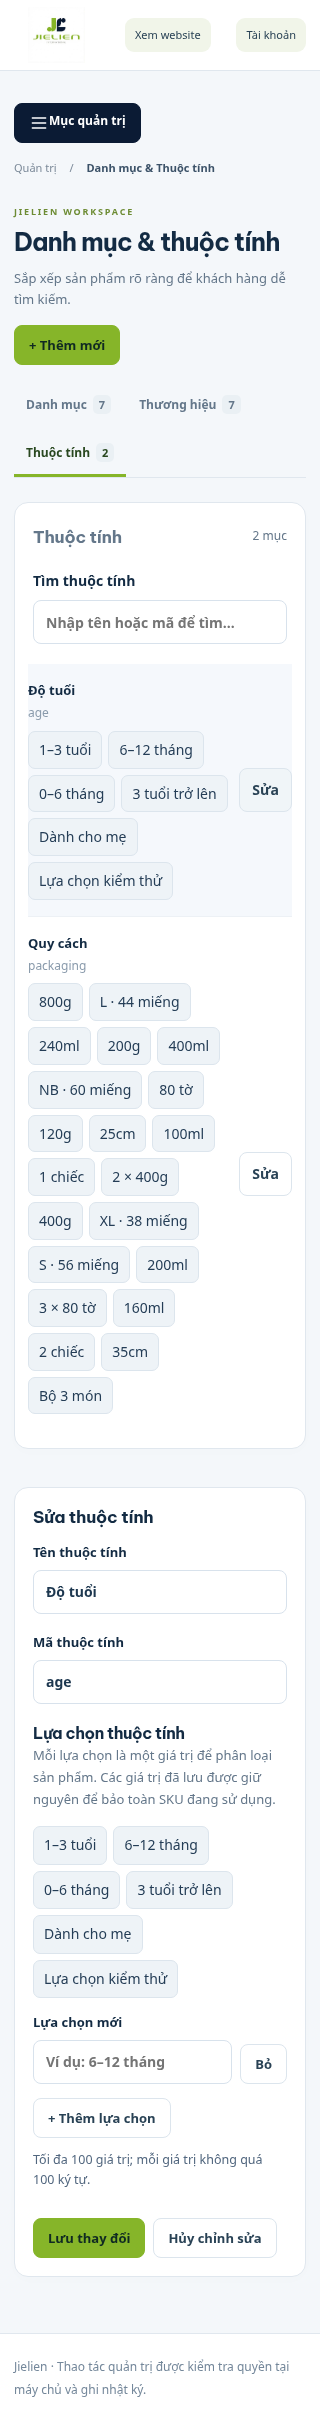
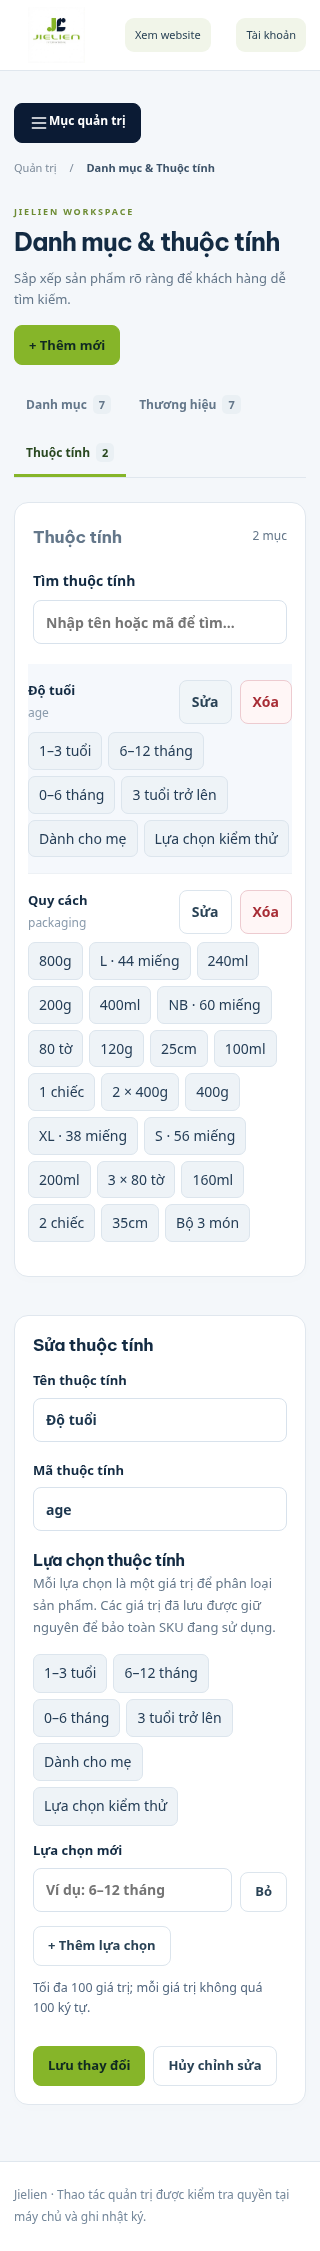
Fix full-height Admin navigation and add protected taxonomy deletion

diff --git a/public/commerce-admin.js b/public/commerce-admin.js
@@ -85,7 +85,7 @@ export function createCommerceEditors({ root, api, has, escape: e, notify }) {
       )
       .join(
         "",
-      )}</div><div class="taxonomy-layout"><section class="panel"><div class="section-title"><h2>${names[kind]}</h2><span>${rows.length} mục</span></div><label class="taxonomy-search">Tìm ${names[kind].toLowerCase()}<input type="search" data-tax-search placeholder="Nhập tên hoặc mã để tìm…"></label><p class="taxonomy-search-empty muted" hidden>Không tìm thấy kết quả phù hợp.</p><div class="table-wrap"><table class="data-table"><thead><tr><th>Tên ${names[kind].toLowerCase()}</th><th>${kind === "attributes" ? "Giá trị" : "Trạng thái"}</th><th><span class="sr-only">Thao tác</span></th></tr></thead><tbody>${rows.map((x) => `<tr><td><b>${e(x.name)}</b><small class="row-description">${e(x.slug || x.code || "")}</small></td><td>${kind === "attributes" ? `<div class="value-chips">${(x.values || []).map((v) => `<span>${e(v.value)}</span>`).join("")}</div>` : stateBadge(x.status)}</td><td>${has("catalog.edit") ? `<button type="button" class="secondary" data-tax-edit="${kind}:${x.id}" aria-label="Sửa ${e(x.name)}">Sửa</button>` : ""}</td></tr>`).join("")}</tbody></table>${!rows.length ? emptyState("Chưa có " + names[kind].toLowerCase(), "Thêm mục đầu tiên bằng biểu mẫu bên cạnh.") : ""}</div></section>${has("catalog.edit") ? `<aside id="taxonomy-editor-panel" class="panel"><h2>Thêm ${names[kind].toLowerCase()}</h2><p class="muted">Thông tin sẽ được dùng trong trình biên tập sản phẩm.</p>${taxonomyForm(kind)}</aside>` : ""}</div>${result}`;
+      )}</div><div class="taxonomy-layout" data-taxonomy-kind="${kind}"><section class="panel"><div class="section-title"><h2>${names[kind]}</h2><span>${rows.length} mục</span></div><p id="taxonomy-action-message" class="form-error" role="alert" hidden></p><label class="taxonomy-search">Tìm ${names[kind].toLowerCase()}<input type="search" data-tax-search placeholder="Nhập tên hoặc mã để tìm…"></label><p class="taxonomy-search-empty muted" hidden>Không tìm thấy kết quả phù hợp.</p><div class="table-wrap"><table class="data-table"><thead><tr><th>Tên ${names[kind].toLowerCase()}</th><th>${kind === "attributes" ? "Giá trị" : "Trạng thái"}</th><th>Thao tác</th></tr></thead><tbody>${rows.map((x) => `<tr><td><b>${e(x.name)}</b><small class="row-description">${e(x.slug || x.code || "")}</small></td><td>${kind === "attributes" ? `<div class="value-chips">${(x.values || []).map((v) => `<span>${e(v.value)}</span>`).join("")}</div>` : stateBadge(x.status)}</td><td>${has("catalog.edit") ? `<div class="taxonomy-row-actions"><button type="button" class="secondary" data-tax-edit="${kind}:${x.id}" aria-label="Sửa ${e(x.name)}">Sửa</button><button type="button" class="secondary taxonomy-delete" data-editor-action="taxonomy-delete:${kind}:${x.id}" aria-label="Xóa ${e(x.name)}">Xóa</button></div>` : ""}</td></tr>`).join("")}</tbody></table>${!rows.length ? emptyState("Chưa có " + names[kind].toLowerCase(), "Thêm mục đầu tiên bằng biểu mẫu bên cạnh.") : ""}</div></section>${has("catalog.edit") ? `<aside id="taxonomy-editor-panel" class="panel"><h2>Thêm ${names[kind].toLowerCase()}</h2><p class="muted">Thông tin sẽ được dùng trong trình biên tập sản phẩm.</p>${taxonomyForm(kind)}</aside>` : ""}</div>${result}`;
   }
   async function loadTax() {
     for (const kind of ["categories", "brands", "attributes"])
@@ -417,6 +417,32 @@ export function createCommerceEditors({ root, api, has, escape: e, notify }) {
             .querySelector("[data-new-values]")
             .lastElementChild.querySelector("input")
             .focus();
+        return;
+      }
+      if (action?.startsWith("taxonomy-delete:")) {
+        if (!has("catalog.edit")) return;
+        const [, kind, target] = action.split(":");
+        const item = tax[kind]?.find((x) => String(x.id) === target);
+        if (!item) return;
+        if (
+          !confirm(
+            `Xóa ${names[kind].toLowerCase()} “${item.name}”? Chỉ có thể xóa mục chưa được sử dụng. Thao tác này không thể hoàn tác.`,
+          )
+        )
+          return;
+        try {
+          await api(`/api/admin/catalog/${kind}/${target}`, {
+            method: "DELETE",
+          });
+        } catch (err) {
+          const message = $("#taxonomy-action-message");
+          message.hidden = false;
+          message.textContent = err.message;
+          message.scrollIntoView({ block: "nearest" });
+          return;
+        }
+        await refresh("taxonomy-editor");
+        notify("Đã xóa " + item.name);
         return;
       }
       if (action?.startsWith("taxonomy-tab:")) {

diff --git a/public/admin-workspace.css b/public/admin-workspace.css
@@ -676,9 +676,36 @@
 }
 .taxonomy-layout {
   display: grid;
-  grid-template-columns: minmax(0, 1.5fr) minmax(340px, 1fr);
+  grid-template-columns: repeat(2, minmax(0, 1fr));
   gap: 22px;
-  align-items: start;
+  align-items: stretch;
+}
+.taxonomy-layout > .panel {
+  margin: 0;
+}
+.taxonomy-layout .data-table {
+  table-layout: fixed;
+  width: 100%;
+}
+.taxonomy-layout .data-table th:last-child {
+  width: 160px;
+}
+.taxonomy-layout[data-taxonomy-kind="attributes"] th:first-child {
+  width: 100px;
+}
+.taxonomy-layout[data-taxonomy-kind="attributes"] th:last-child {
+  width: 150px;
+}
+.admin-workspace .taxonomy-layout .table-wrap {
+  max-height: none;
+}
+.taxonomy-row-actions {
+  display: flex;
+  flex-wrap: wrap;
+  gap: 8px;
+}
+.taxonomy-layout .data-table td {
+  overflow-wrap: anywhere;
 }
 .admin-workspace .taxonomy-form {
   grid-template-columns: 1fr;
@@ -882,7 +909,7 @@
 /* Desktop workspace uses the full viewport; navigation attaches to the left edge. */
 @media (min-width: 901px) {
   .admin-workspace {
-    --admin-header-height: 77px;
+    --admin-sidebar-width: 256px;
   }
   .admin-workspace .management-wrap {
     max-width: none;
@@ -891,18 +918,31 @@
     position: sticky;
     top: 0;
     z-index: 20;
+    margin-left: var(--admin-sidebar-width);
   }
   .admin-workspace .admin-main.management-wrap {
     margin: 0;
     padding: 0;
   }
   .admin-workspace .admin-sidebar {
-    top: var(--admin-header-height);
-    height: calc(100dvh - var(--admin-header-height));
+    position: fixed;
+    inset: 0 auto 0 0;
+    width: var(--admin-sidebar-width);
+    height: 100dvh;
+    z-index: 30;
     border-radius: 0;
   }
+  .admin-workspace .management-footer {
+    margin-left: var(--admin-sidebar-width);
+  }
   .admin-workspace .workspace-main {
+    grid-column: 2;
     padding: 24px 28px 40px 0;
+  }
+}
+@media (min-width: 901px) and (max-width: 1200px) {
+  .admin-workspace {
+    --admin-sidebar-width: 224px;
   }
 }
 @media (max-width: 1200px) {
@@ -1149,7 +1189,6 @@
 @media (max-width: 600px) {
   .admin-workspace .taxonomy-layout .table-wrap {
     overflow: visible;
-    max-height: none;
   }
   .workspace-tabs:has([data-editor-action^="taxonomy-tab:"]) {
     flex-wrap: wrap;
@@ -1188,13 +1227,13 @@
     overflow-wrap: anywhere;
   }
   .taxonomy-layout td:nth-child(2) {
-    grid-column: 1;
+    grid-column: 1 / -1;
     grid-row: 2;
   }
   .taxonomy-layout td:last-child {
     grid-column: 2;
-    grid-row: 1 / span 2;
-    align-self: center;
+    grid-row: 1;
+    align-self: start;
   }
 }
 /* Daily workspace: compact navigation, readable tables and clear task hierarchy. */
@@ -2068,4 +2107,13 @@
   gap: 8px;
   font-size: 14px;
   flex: 1;
+}
+
+.admin-workspace .taxonomy-delete {
+  color: #a82d36;
+  border-color: #edcbd0;
+  background: #fff6f6;
+}
+.taxonomy-delete:hover {
+  background: #ffe8eb;
 }

diff --git a/docs/validation/admin-catalog-layout/README.md b/docs/validation/admin-catalog-layout/README.md
@@ -9,22 +9,25 @@ Ngày kiểm tra: 2026-11-09. Dữ liệu trình duyệt là fixture trong schem
 - Sản phẩm: chia thông tin, phân loại & giá, hình ảnh thành ba khu vực có liên kết điều hướng. Mỗi khu vực giữ nút lưu riêng để phản ánh API hiện có.
 - SKU: tên, mã, giá, trạng thái và cảnh báo tồn luôn hiện; mã vạch, khối lượng, kích thước, thuộc tính nằm trong khu vực mở rộng. Chọn thuộc tính theo tên thay cho gõ ID.
 - Bộ tạo tổ hợp có lựa chọn lớn, hỗ trợ bàn phím; giữ giới hạn 100 tổ hợp và chống thêm trùng. Cần bấm Lưu SKU để ghi các tổ hợp mới.
-- Giữ sidebar desktop sát mép trái; điện thoại chuyển một cột, tab tự xuống dòng, danh sách giá trị không bị cắt chiều cao.
+- Sidebar desktop cố định sát mép trái, từ đỉnh tới đáy viewport; header và nội dung nằm bên phải. Chỉ danh sách menu cuộn bên trong. Điện thoại giữ menu đóng/mở, bố cục một cột.
+- Danh sách và biểu mẫu danh mục chia đều hai cột, cùng chiều cao trên desktop. Các cột bảng tự phân bổ, nút Sửa/Xóa có khoảng cách đồng nhất; trên điện thoại chuyển thành từng thẻ.
+- Bổ sung xóa danh mục, thương hiệu và nhóm thuộc tính chưa sử dụng; có xác nhận trước khi xóa, thông báo lỗi ngay trên danh sách và ghi nhật ký. Danh mục có sản phẩm hoặc danh mục con, thương hiệu có sản phẩm, thuộc tính gắn với SKU đều được giữ lại và trả lỗi 409.
 
 ## Kiểm chứng
 
-- `npm test`: 66/66.
+- `npm test`: 67/67, gồm kiểm tra xóa mục chưa sử dụng, chặn xóa mục đang dùng, CSRF, quyền truy cập, lỗi không tồn tại và nhật ký.
 - `npm run test:commerce`: 13/13.
 - `npm run test:usability`: 9/9.
 - `npm run test:management`: 11/11.
 - `npm run test:admin-access`: 6/6.
-- `npm run test:admin-catalog`: thêm giá trị rồi tải lại, bảo toàn giá trị cũ, bỏ dòng chưa lưu, hủy sửa, tìm không có kết quả; lưu lựa chọn thuộc tính theo tên và tải lại; tạo tổ hợp không trùng; không tràn ngang tại 320/375/768/1440/1920px.
+- `npm run test:admin-layout`: 5 kích thước màn hình, menu và hộp thoại đơn hàng.
+- `npm run test:admin-catalog`: thêm/xóa danh mục chưa sử dụng, hủy xác nhận, báo lỗi khi mục đang dùng; hai khung bằng nhau và menu không đổi vị trí khi cuộn; thêm giá trị rồi tải lại, bảo toàn giá trị cũ, bỏ dòng chưa lưu, hủy sửa, tìm không có kết quả; lưu lựa chọn thuộc tính theo tên và tải lại; tạo tổ hợp không trùng; không tràn ngang tại 320/375/768/1440/1920px.
 - Đã xem ảnh desktop/tablet/mobile trong `docs/screenshots/admin-catalog-layout/` và sửa các lỗi tab bị khuất, danh sách bị cắt trên điện thoại.
-- Không thay migration hoặc API, CSRF, kiểm tra quyền và version được giữ nguyên.
+- Không thay migration. API mới: `DELETE /api/admin/catalog/{categories|brands|attributes}/:id`, yêu cầu quyền `catalog.edit` và CSRF. Kiểm tra liên kết, xóa và ghi audit trong cùng transaction; khóa dòng trước khi kiểm tra để bảo vệ liên kết khi có thao tác đồng thời.
 
 ## Giới hạn và công việc tiếp theo
 
-- Backend thuộc tính hiện chỉ thêm giá trị; chưa đổi tên hoặc xóa giá trị đã lưu. Giao diện không cung cấp thao tác gây hiểu nhầm. Muốn bổ sung cần xử lý liên kết SKU và quy tắc khi giá trị đã được dùng; cửa hàng cần quyết định có cho ngừng dùng, đổi tên hay gộp lựa chọn không.
+- Chưa hỗ trợ đổi tên hoặc xóa riêng từng giá trị thuộc tính đã lưu. Có thể xóa toàn bộ nhóm thuộc tính nếu không có SKU sử dụng. Giao diện không cung cấp thao tác gây hiểu nhầm. Muốn bổ sung cần xử lý liên kết SKU và quy tắc khi giá trị đã được dùng; cửa hàng cần quyết định có cho ngừng dùng, đổi tên hay gộp lựa chọn không.
 - Lưu một phần vẫn tải lại trình biên tập theo luồng hiện có. Hãy lưu phần đang sửa trước khi chuyển sang sửa phần khác. Cải tiến tiếp theo có thể thêm cảnh báo rời trang và lưu đồng thời có xử lý xung đột.
 - Email báo đơn hàng nằm trong đề xuất `docs/proposals/ORDER_EMAIL_NOTIFICATION.md`, chưa triển khai trong lần chỉnh UI này. Cần email nhận thông báo, dịch vụ gửi thư/tài khoản SMTP, cấu hình tên miền gửi thư và thông tin xác thực được đặt riêng trong môi trường máy chủ.
 - Đây là cập nhật source; chưa triển khai lên máy của cửa hàng. Kiểm thử qua không phải cam kết website không bao giờ phát sinh lỗi.

diff --git a/docs/screenshots/admin-catalog-layout/README.md b/docs/screenshots/admin-catalog-layout/README.md
@@ -1,3 +1,3 @@
 # Catalog UI verification
 
-All screenshots use an isolated fixture schema, never customer data. Widths: 320, 375, 768, 1440, 1920. Attribute add/remove-before-save, preservation of saved values, cancel, search, duplicate-safe SKU generation and name-based attribute selection verified.
+All screenshots use an isolated fixture schema, never customer data. Widths: 320, 375, 768, 1440, 1920. Category delete/cancel/in-use rejection, equal desktop panels, fixed sidebar during wheel scrolling, attribute add/remove-before-save, preservation of saved values, cancel, search, duplicate-safe SKU generation and name-based attribute selection verified.
